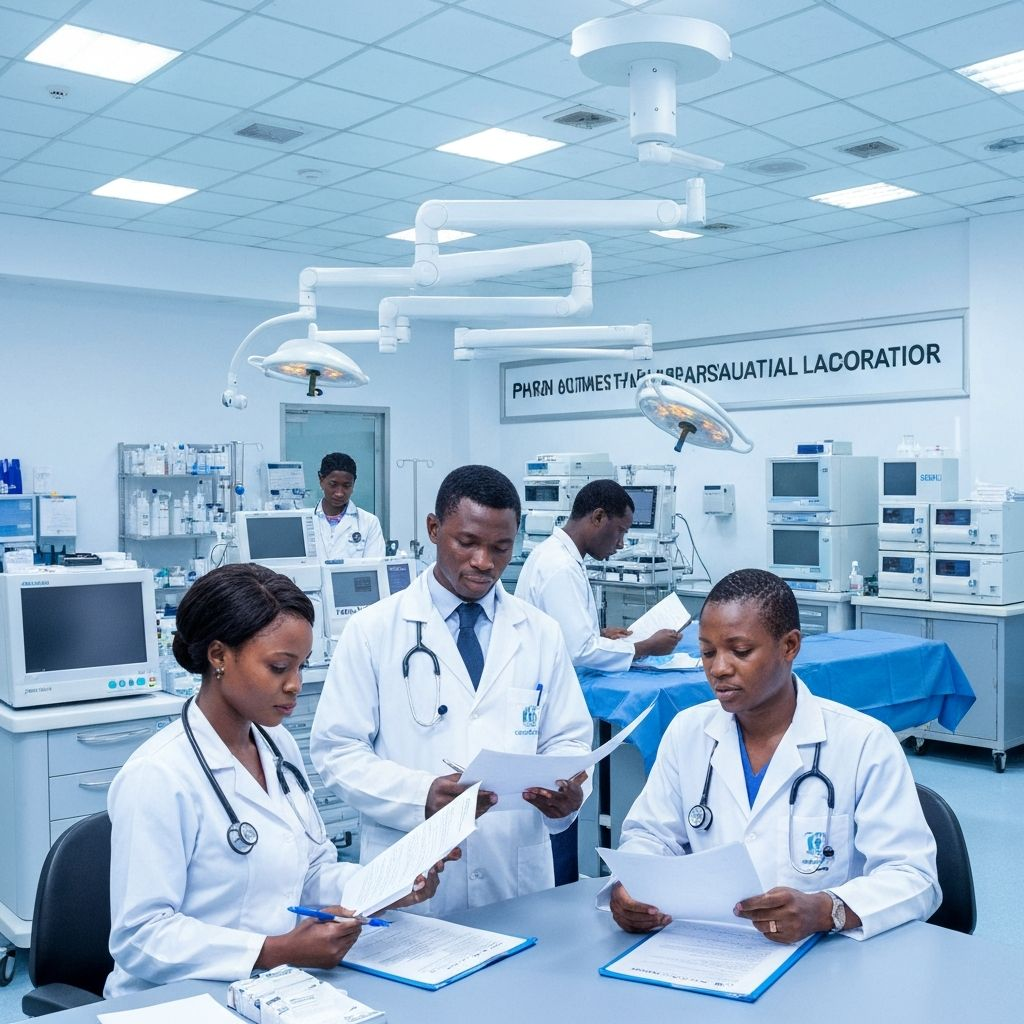
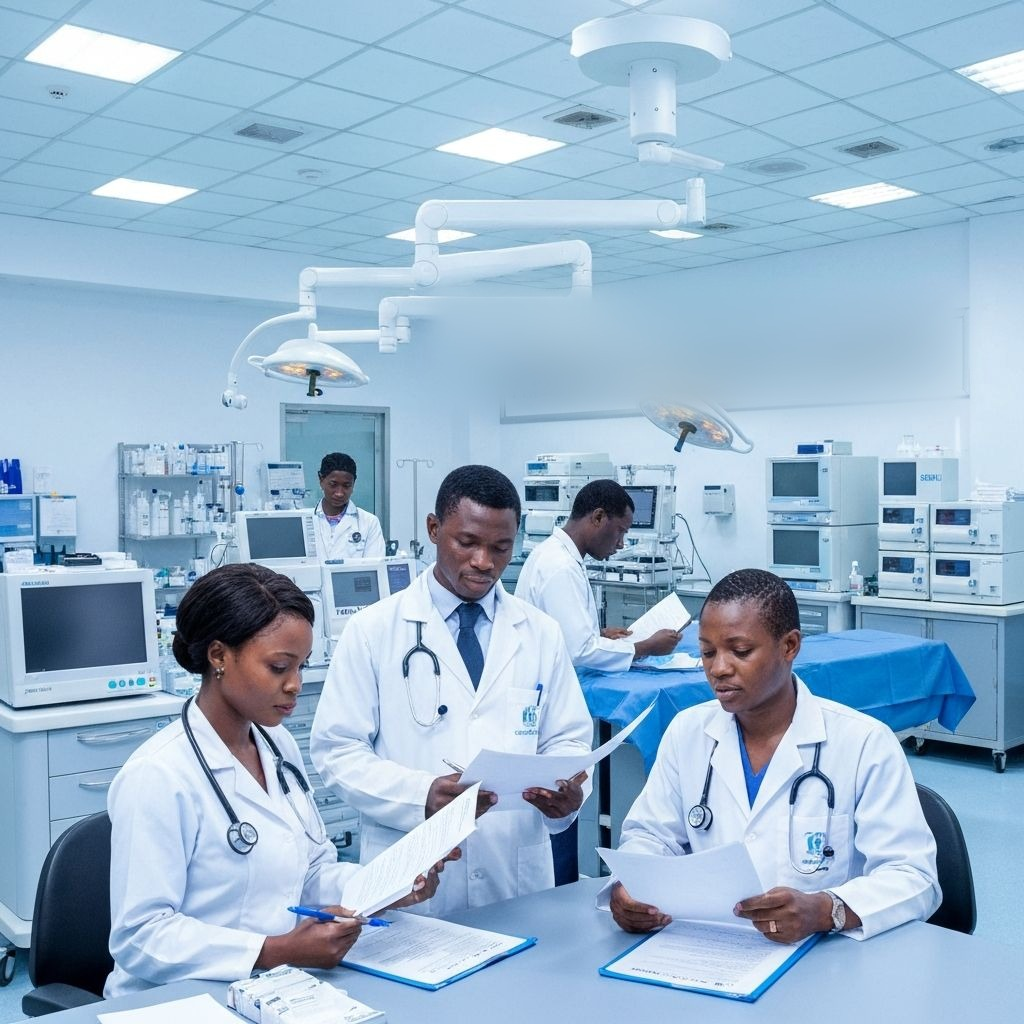
soften color and change image

Changed region(s): [[0.4062, 0.2812, 0.9375, 0.4062], [0.9062, 0.2812, 0.9375, 0.3125]]

diff --git a/app/globals.css b/app/globals.css
@@ -25,28 +25,28 @@
   --secondary-foreground: #F7F5F2;
   --muted: #16294A;
   --muted-foreground: #B8C0CC;
-  --accent: #CE1225;
+  --accent: #D9481F;
   --accent-foreground: #F7F5F2;
-  --accent-hover: #A50D1C;
+  --accent-hover: #B03816;
   --destructive: #CE1225;
   --destructive-foreground: #F7F5F2;
   --border: #243B5E;
   --input: #243B5E;
-  --ring: #CE1225;
-  --chart-1: #CE1225;
+  --ring: #D9481F;
+  --chart-1: #D9481F;
   --chart-2: #B8C0CC;
-  --chart-3: #A50D1C;
+  --chart-3: #B03816;
   --chart-4: #243B5E;
   --chart-5: #F7F5F2;
   --radius: 0.5rem;
   --sidebar: #0A1628;
   --sidebar-foreground: #F7F5F2;
-  --sidebar-primary: #CE1225;
+  --sidebar-primary: #D9481F;
   --sidebar-primary-foreground: #F7F5F2;
   --sidebar-accent: #16294A;
   --sidebar-accent-foreground: #F7F5F2;
   --sidebar-border: #243B5E;
-  --sidebar-ring: #CE1225;
+  --sidebar-ring: #D9481F;
 }
 
 /* Fluid type + shared easing. Plain @theme (not inline) so Tailwind emits the vars and
